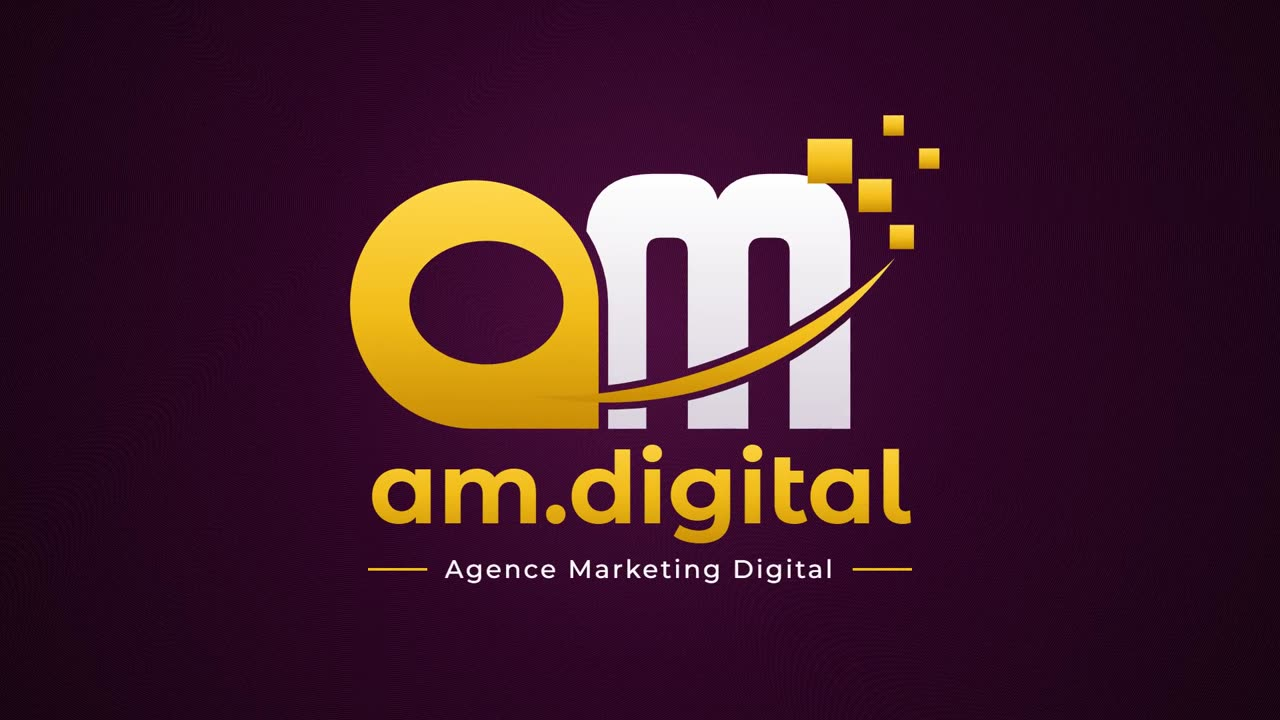
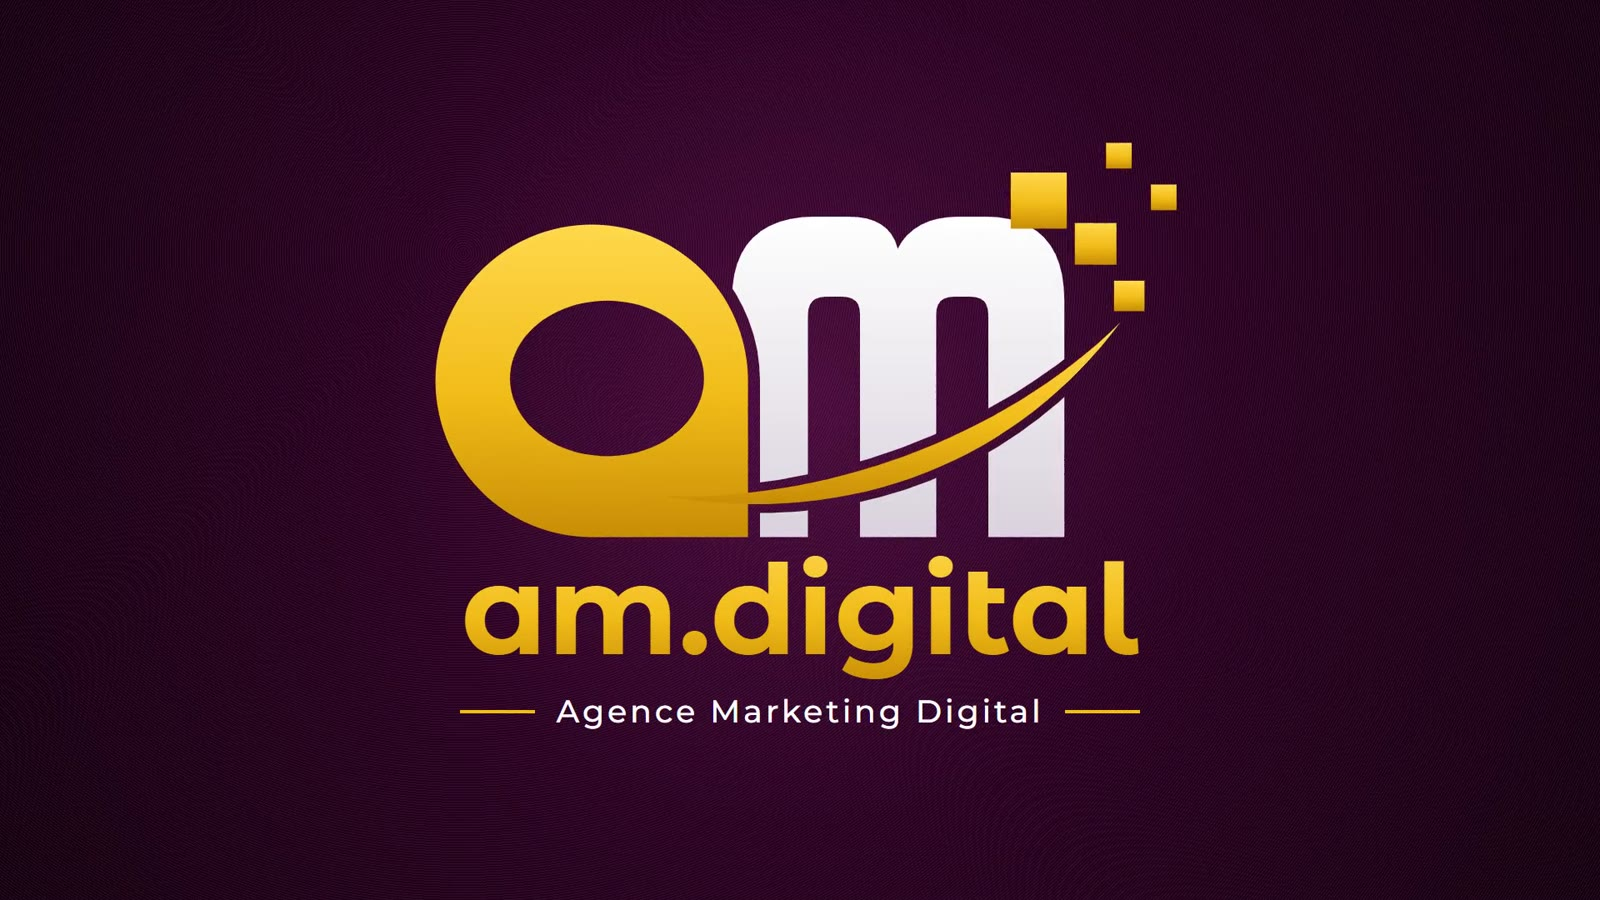
Identité de marque : vidéo de marque affichée en grand en tête de galerie

diff --git a/src/assets/css/style.css b/src/assets/css/style.css
@@ -286,6 +286,9 @@ h1 .stroke{color:var(--a900);-webkit-text-stroke:.045em var(--or400);paint-order
 @media (max-width:860px){.story{grid-template-columns:1fr}}
 .mosaic{columns:3 16rem;column-gap:1.2rem}
 .shot-btn{display:block;width:100%;margin:0 0 1.2rem;break-inside:avoid;padding:0;border:1px solid var(--ligne);border-radius:18px;overflow:hidden;background:var(--a800);cursor:zoom-in;text-align:left;color:var(--blanc)}
+.feature-video{margin:0 0 2rem;border:1px solid var(--ligne);border-radius:22px;overflow:hidden;background:#000;box-shadow:0 30px 80px rgba(0,0,0,.45)}
+.feature-video video{display:block;width:100%;height:auto;aspect-ratio:16/9;background:#000}
+.feature-video figcaption{padding:.9rem 1.2rem;font-size:.95rem;color:var(--doux);background:var(--a800)}
 .shot-btn img{width:100%;height:auto;transition:transform .6s cubic-bezier(.16,1,.3,1)}
 .shot-btn:hover img{transform:scale(1.03)}
 .shot-btn span{display:block;padding:.75rem 1rem;font-size:.85rem;color:var(--doux);line-height:1.4}

diff --git a/src/realisations/creation-marque-am-digital.md b/src/realisations/creation-marque-am-digital.md
@@ -30,7 +30,8 @@ couverture: /assets/uploads/identite-am-digital/01-papeterie-ensemble.jpg
 couverture_alt: "Papeterie AM.Digital : papier à en-tête, carnet aubergine doré, cartes de visite, stylo et badge"
 couverture_paysage: true
 galerie:
-  - video: /assets/video/am-digital-presentation-marque.mp4
+  - grand: true
+    video: /assets/video/am-digital-presentation-marque.mp4
     image: /assets/video/am-digital-presentation-marque.jpg
     legende: Vidéo de présentation de la marque (30 s)
   - lien: /assets/uploads/identite-am-digital/charte-graphique-am-digital.pdf
